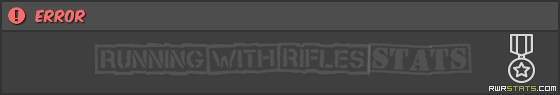
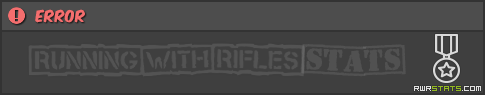
Lower the server image width

diff --git a/dynamic_image.py b/dynamic_image.py
@@ -130,10 +130,10 @@ class DynamicServerImage(DynamicImage):
         self._draw_text((8, 44), '{}/{}'.format(self.server.players.current, self.server.players.max))
 
         # Map
-        self._draw_text((233, 44), self.server.map.name_display)
+        self._draw_text((194, 44), self.server.map.name_display)
 
         # Server mode
         self._draw_text((8, 73), self.server.mode_name_long)
 
         # Server type
-        self._draw_text((233, 73), self.server.type_name)
+        self._draw_text((194, 73), self.server.type_name)
